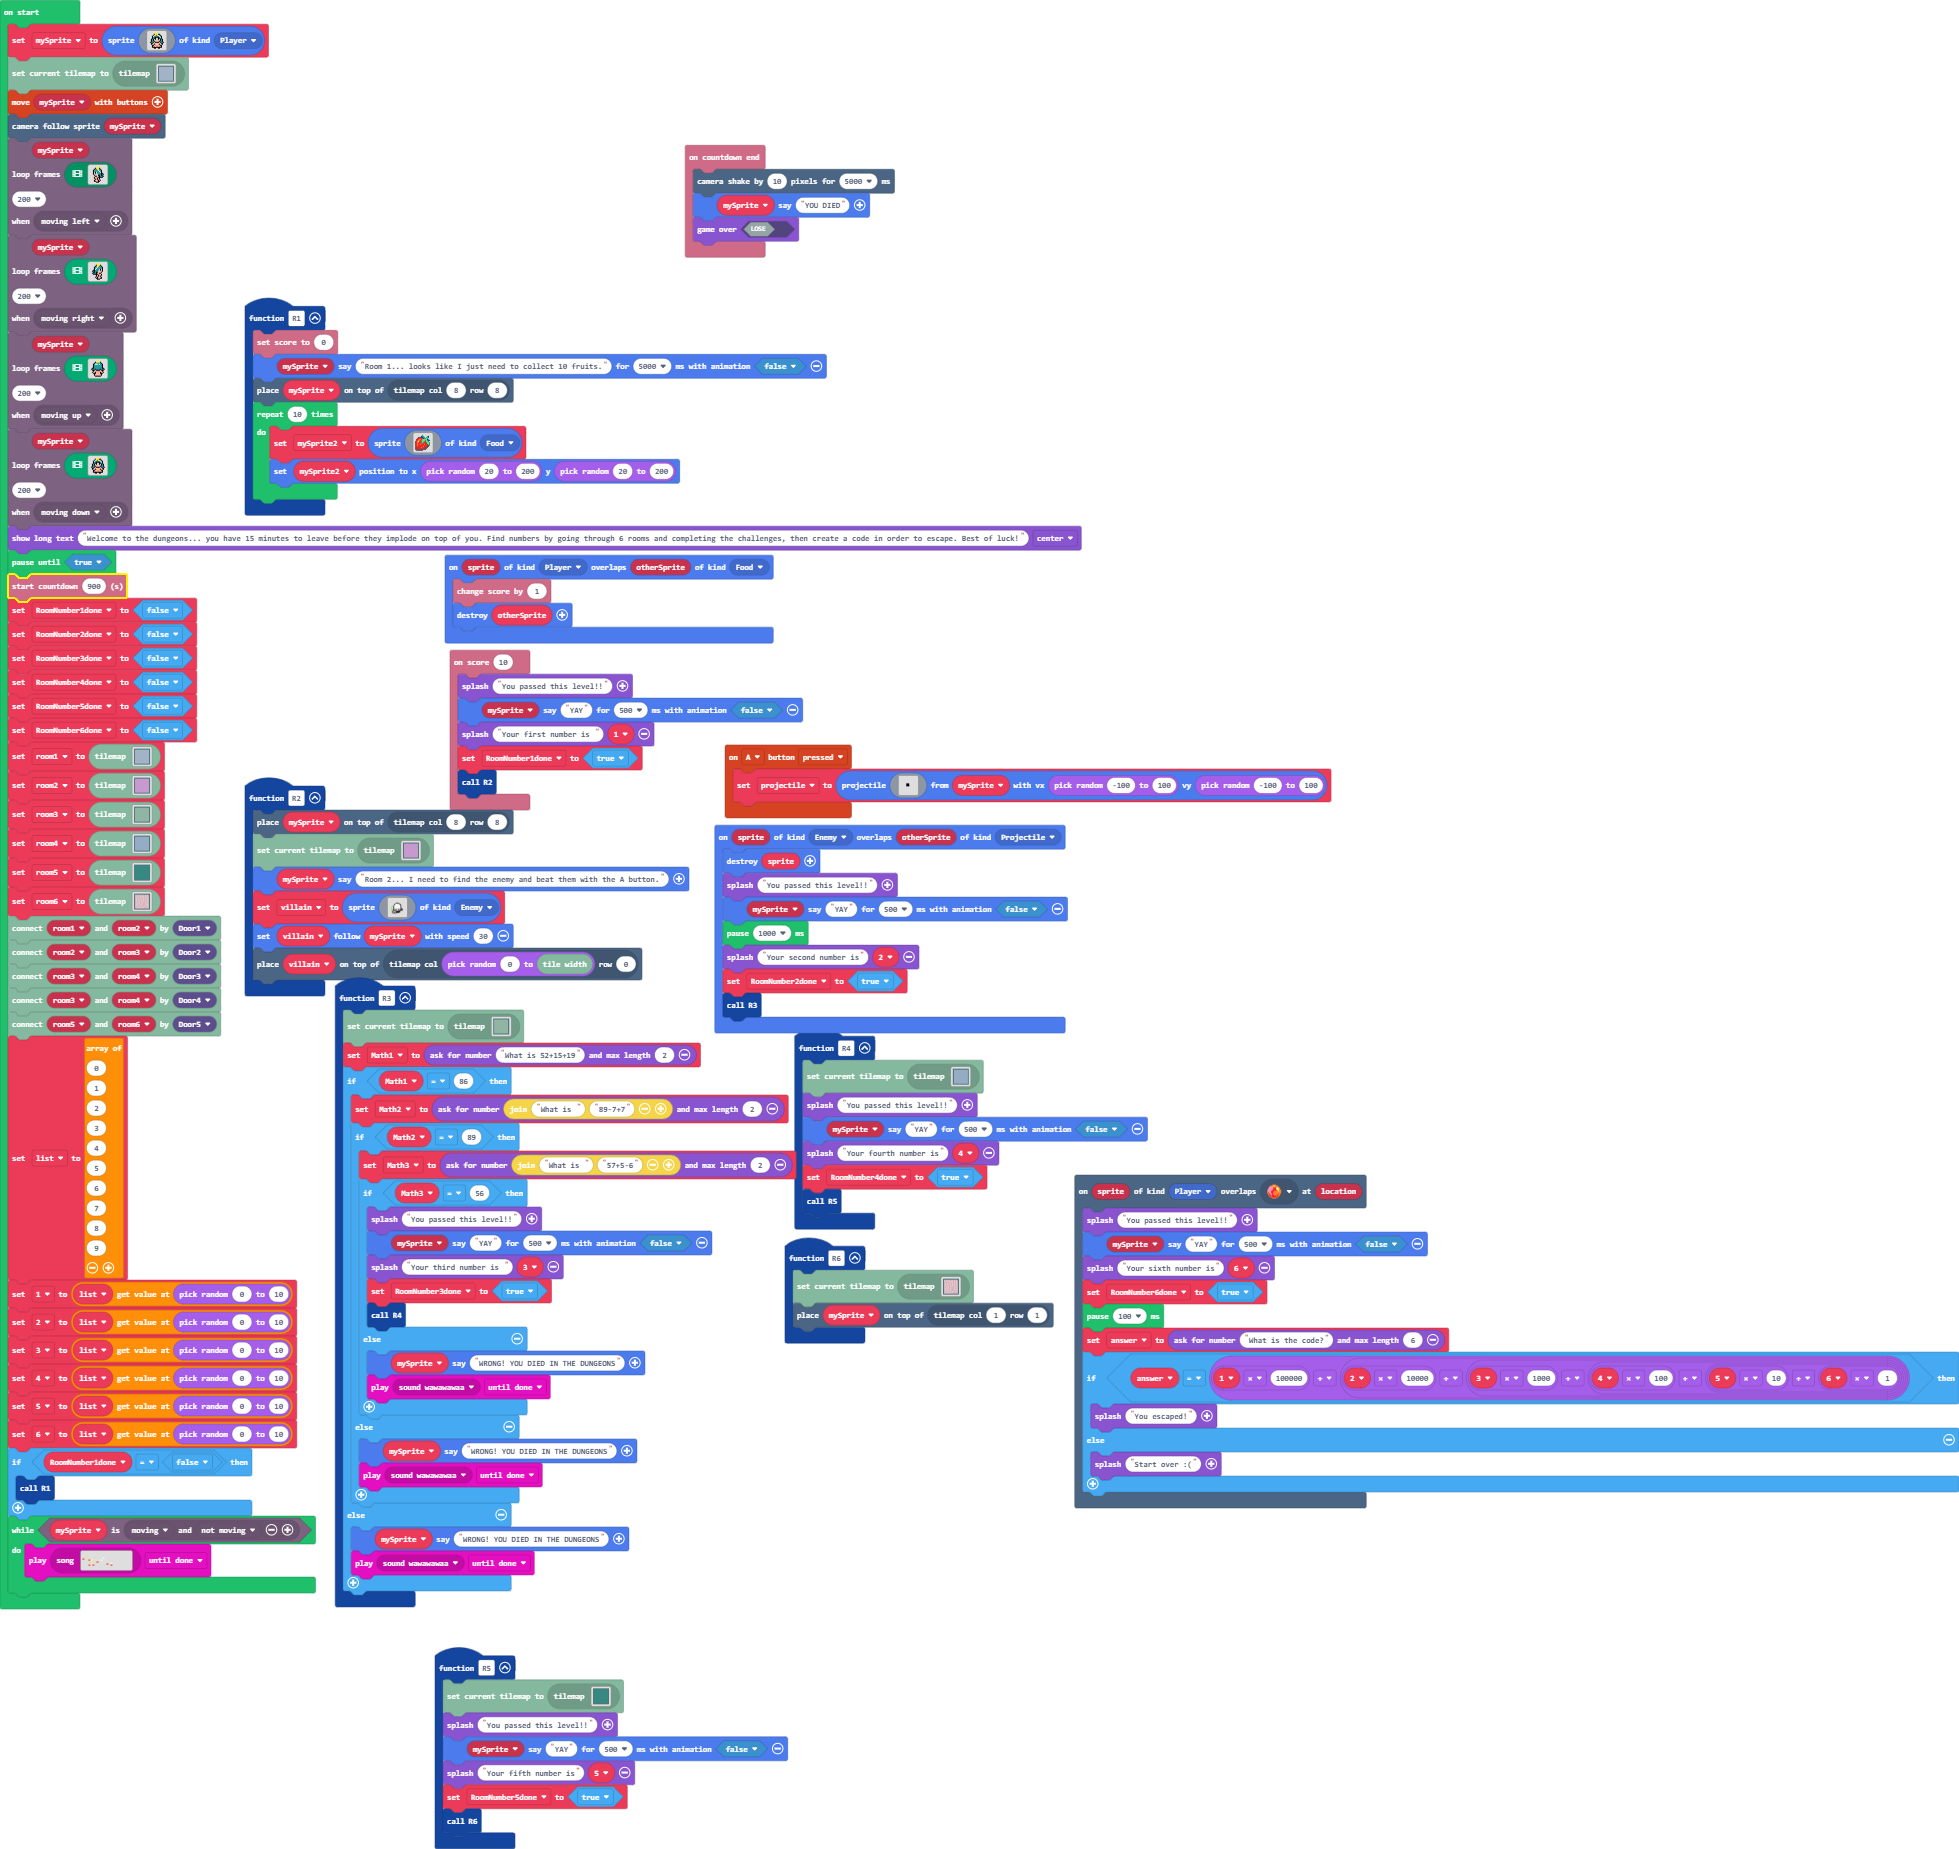
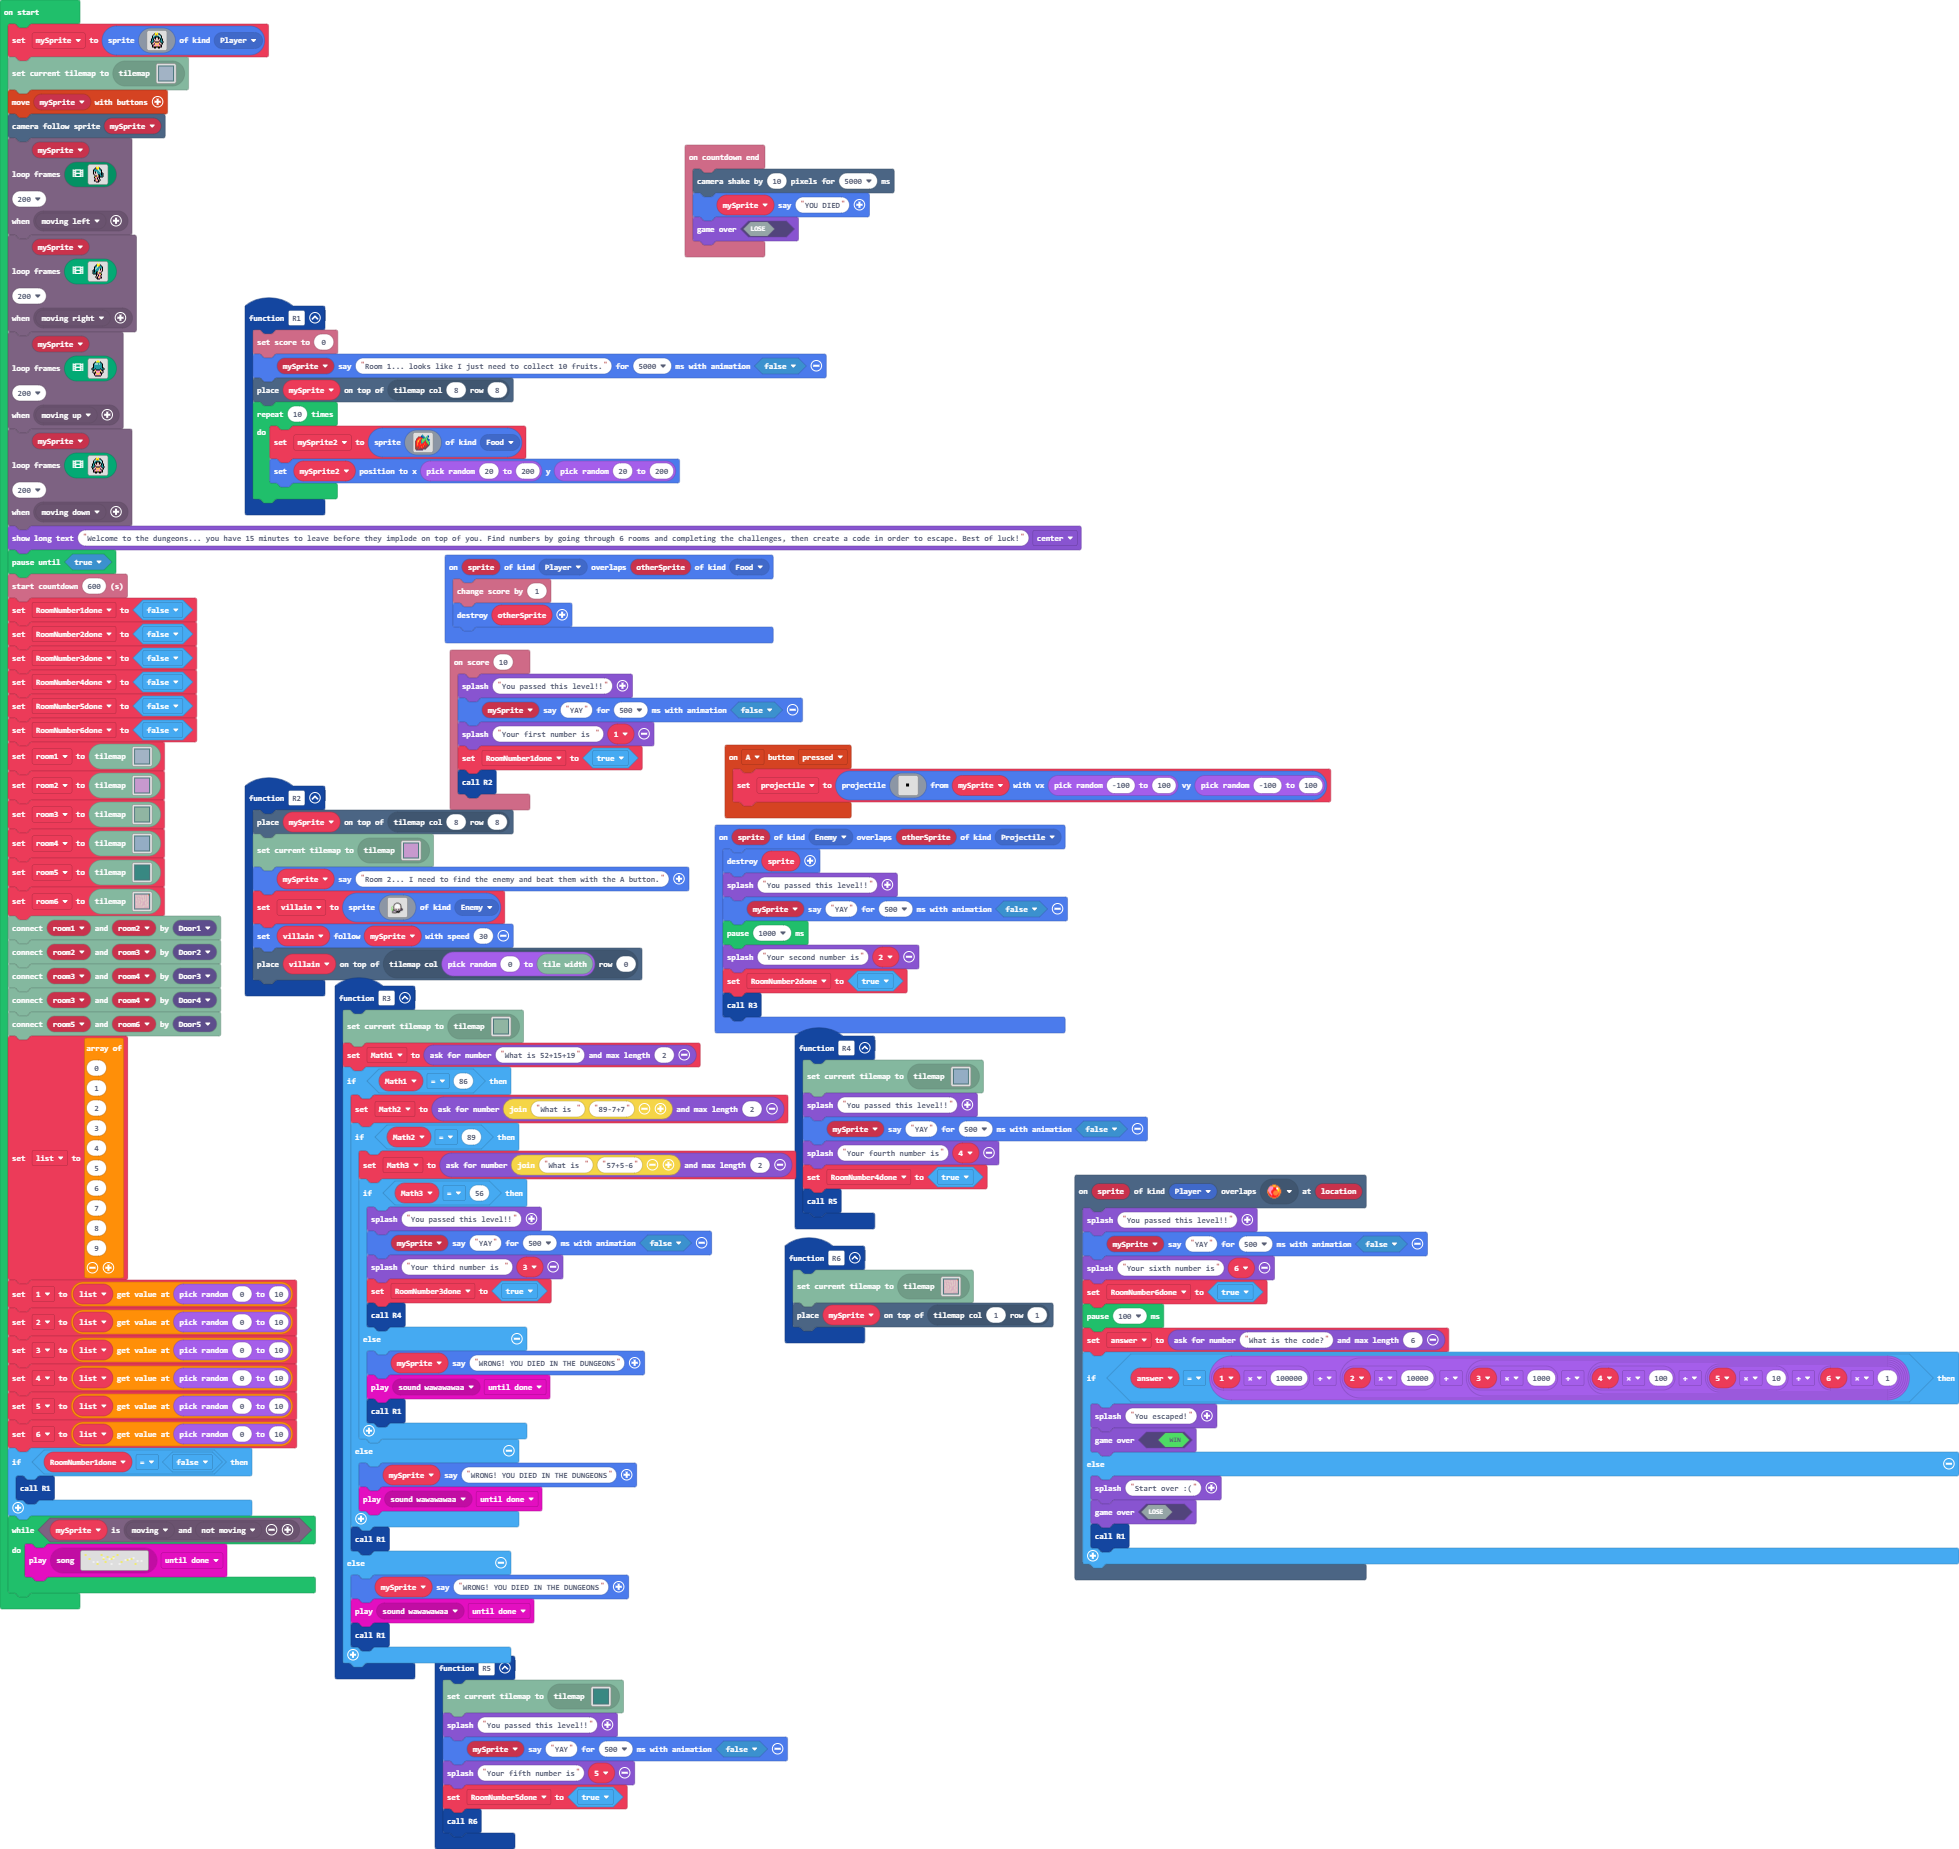
Update pxt.json, main.blocks, main.ts, images.g.jres, images.g.ts

diff --git a/main.ts b/main.ts
@@ -123,14 +123,17 @@ function R3 () {
             } else {
                 mySprite.sayText("WRONG! YOU DIED IN THE DUNGEONS")
                 music.play(music.melodyPlayable(music.wawawawaa), music.PlaybackMode.UntilDone)
+                R1()
             }
         } else {
             mySprite.sayText("WRONG! YOU DIED IN THE DUNGEONS")
             music.play(music.melodyPlayable(music.wawawawaa), music.PlaybackMode.UntilDone)
         }
+        R1()
     } else {
         mySprite.sayText("WRONG! YOU DIED IN THE DUNGEONS")
         music.play(music.melodyPlayable(music.wawawawaa), music.PlaybackMode.UntilDone)
+        R1()
     }
 }
 function R4 () {
@@ -154,8 +157,11 @@ scene.onOverlapTile(SpriteKind.Player, sprites.dungeon.collectibleRedCrystal, fu
     answer = game.askForNumber("What is the code?", 6)
     if (answer == _1 * 100000 + (_2 * 10000 + (_3 * 1000 + (_4 * 100 + (_5 * 10 + _6 * 1))))) {
         game.splash("You escaped!")
+        game.gameOver(true)
     } else {
         game.splash("Start over :(")
+        game.gameOver(false)
+        R1()
     }
 })
 function R5 () {
@@ -437,7 +443,7 @@ characterAnimations.rule(Predicate.MovingDown)
 )
 game.showLongText("Welcome to the dungeons... you have 15 minutes to leave before they implode on top of you. Find numbers by going through 6 rooms and completing the challenges, then create a code in order to escape. Best of luck!", DialogLayout.Center)
 pauseUntil(() => true)
-info.startCountdown(900)
+info.startCountdown(600)
 RoomNumber1done = false
 RoomNumber2done = false
 RoomNumber3done = false
@@ -477,5 +483,5 @@ if (RoomNumber1done == false) {
     R1()
 }
 while (characterAnimations.matchesRule(mySprite, characterAnimations.rule(Predicate.Moving, Predicate.NotMoving))) {
[2 lines of base64/hex data omitted]
 }

diff --git a/images.g.ts b/images.g.ts
@@ -1,0 +1,27 @@
+// Auto-generated code. Do not edit.
+namespace myImages {
+
+    helpers._registerFactory("image", function(name: string) {
+        switch(helpers.stringTrim(name)) {
+
+        }
+        return null;
+    })
+
+    helpers._registerFactory("animation", function(name: string) {
+        switch(helpers.stringTrim(name)) {
+
+        }
+        return null;
+    })
+
+    helpers._registerFactory("song", function(name: string) {
+        switch(helpers.stringTrim(name)) {
+            case "song1":
[1 lines of base64/hex data omitted]
+        }
+        return null;
+    })
+
+}
+// Auto-generated code. Do not edit.
